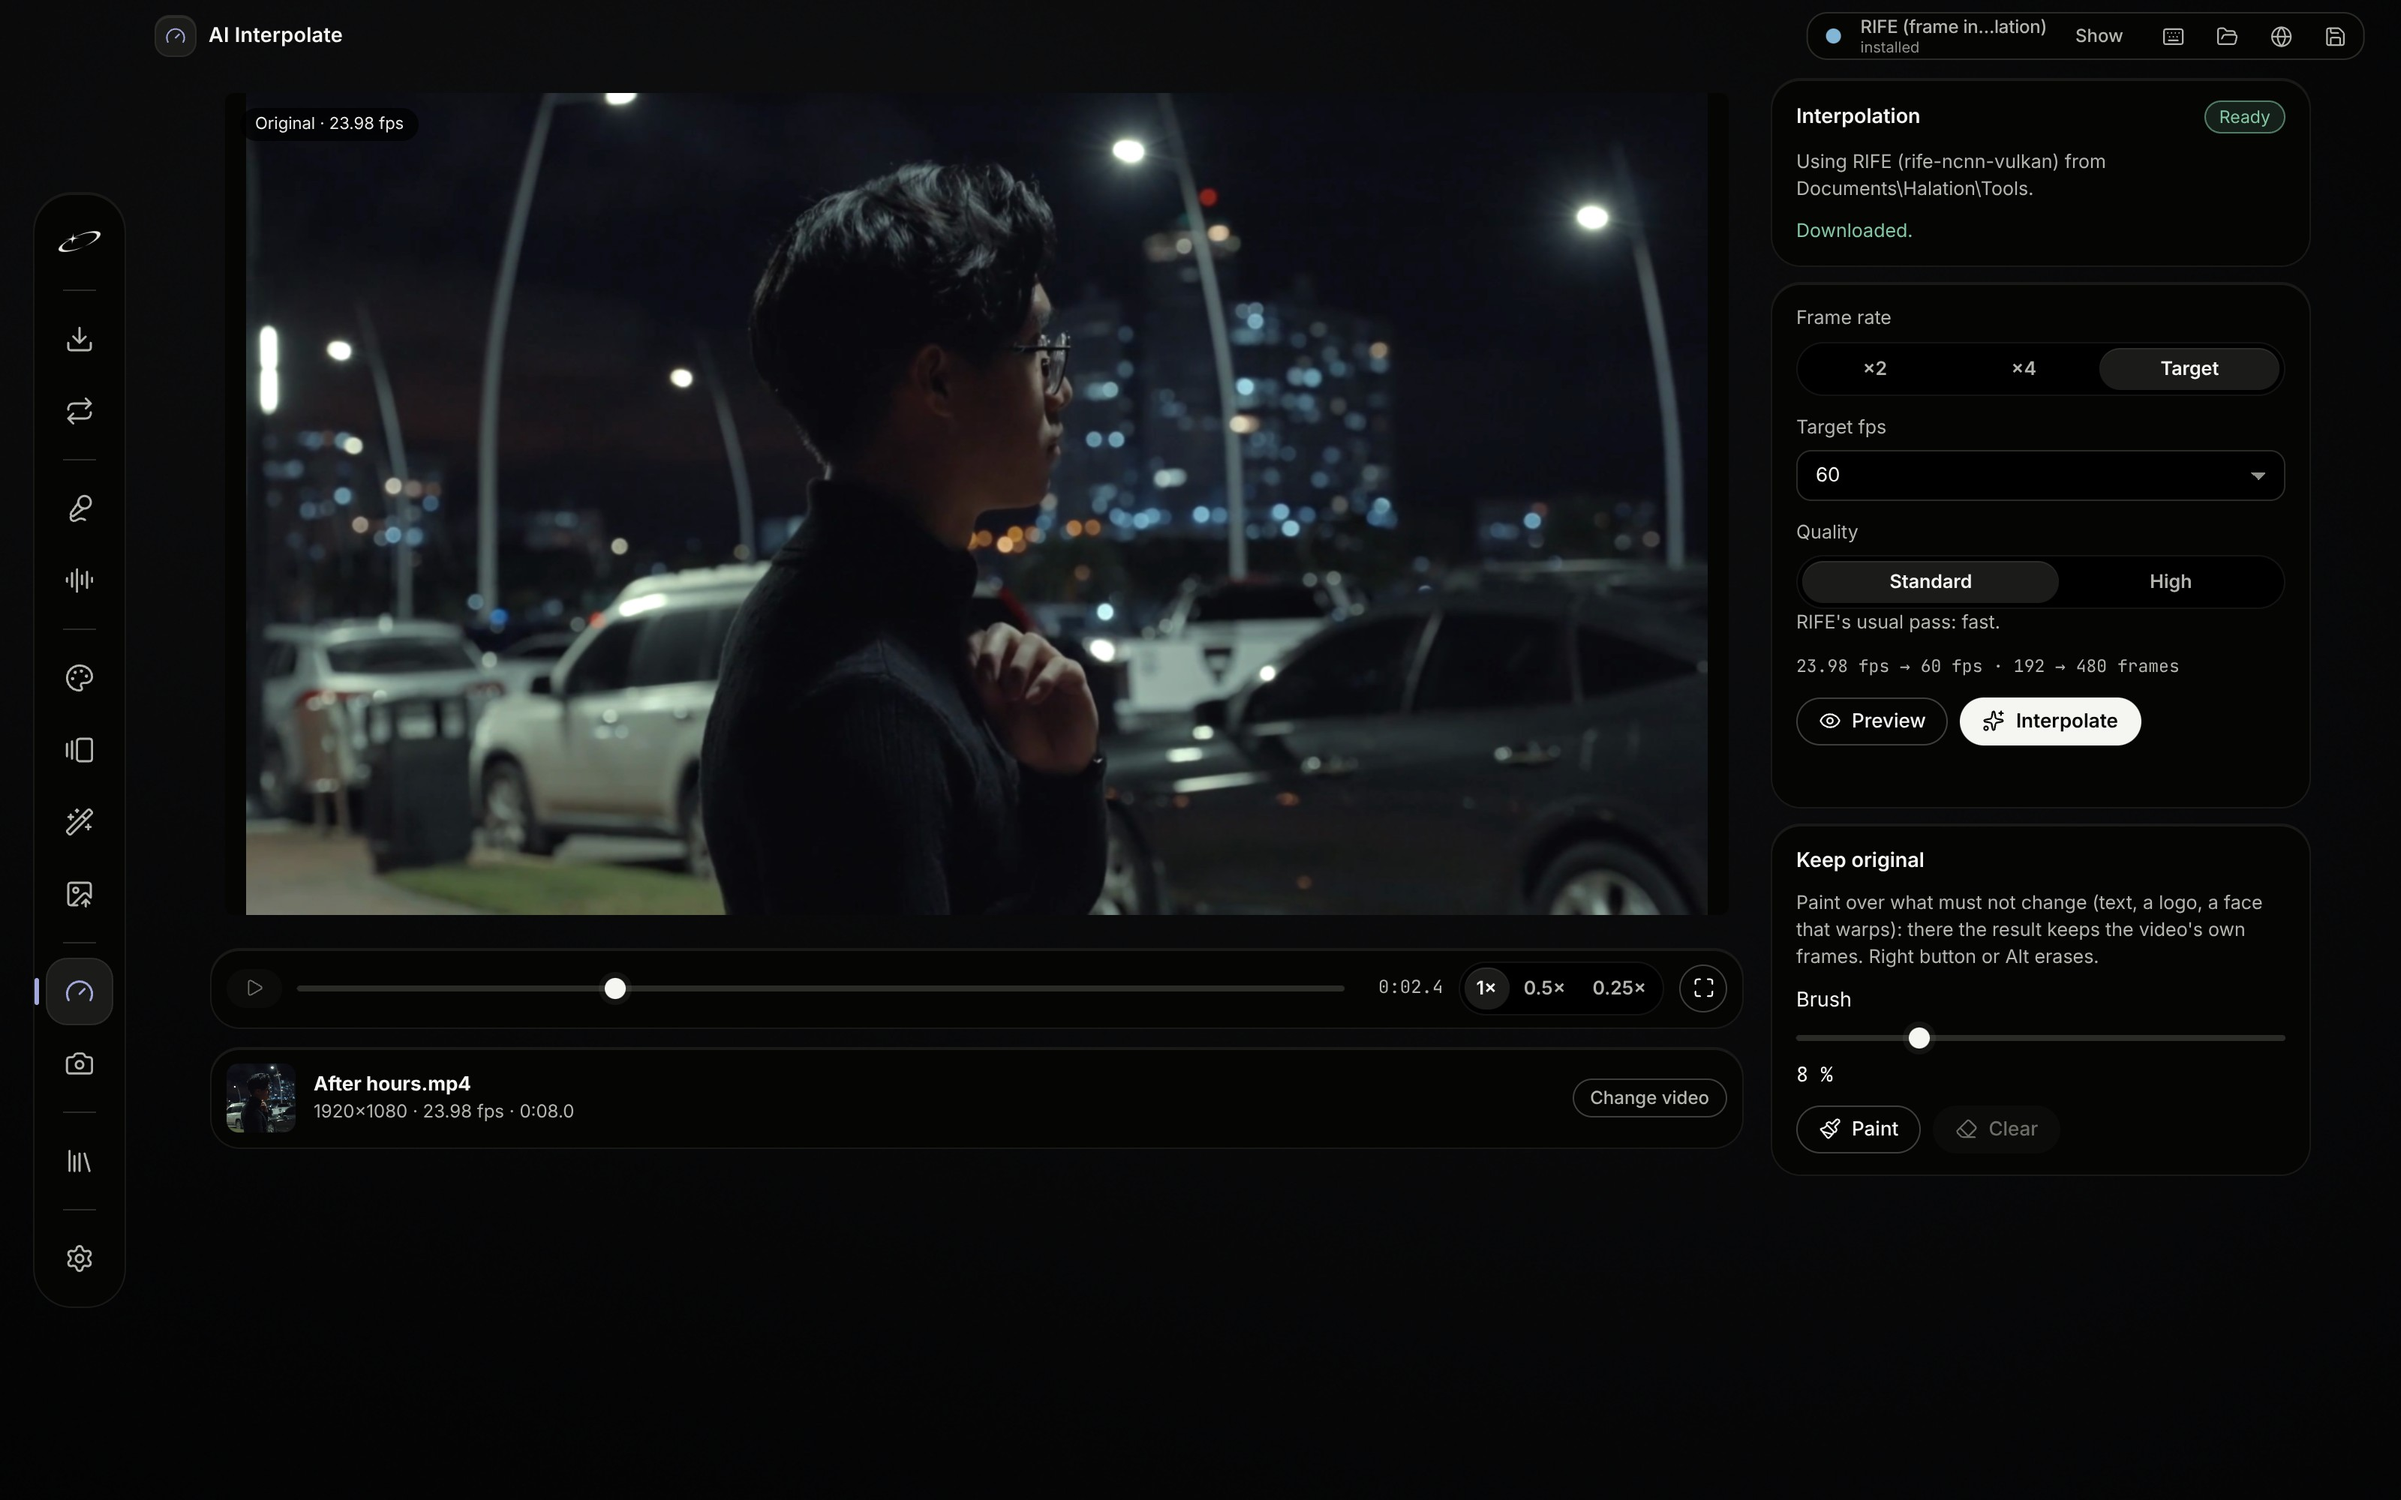
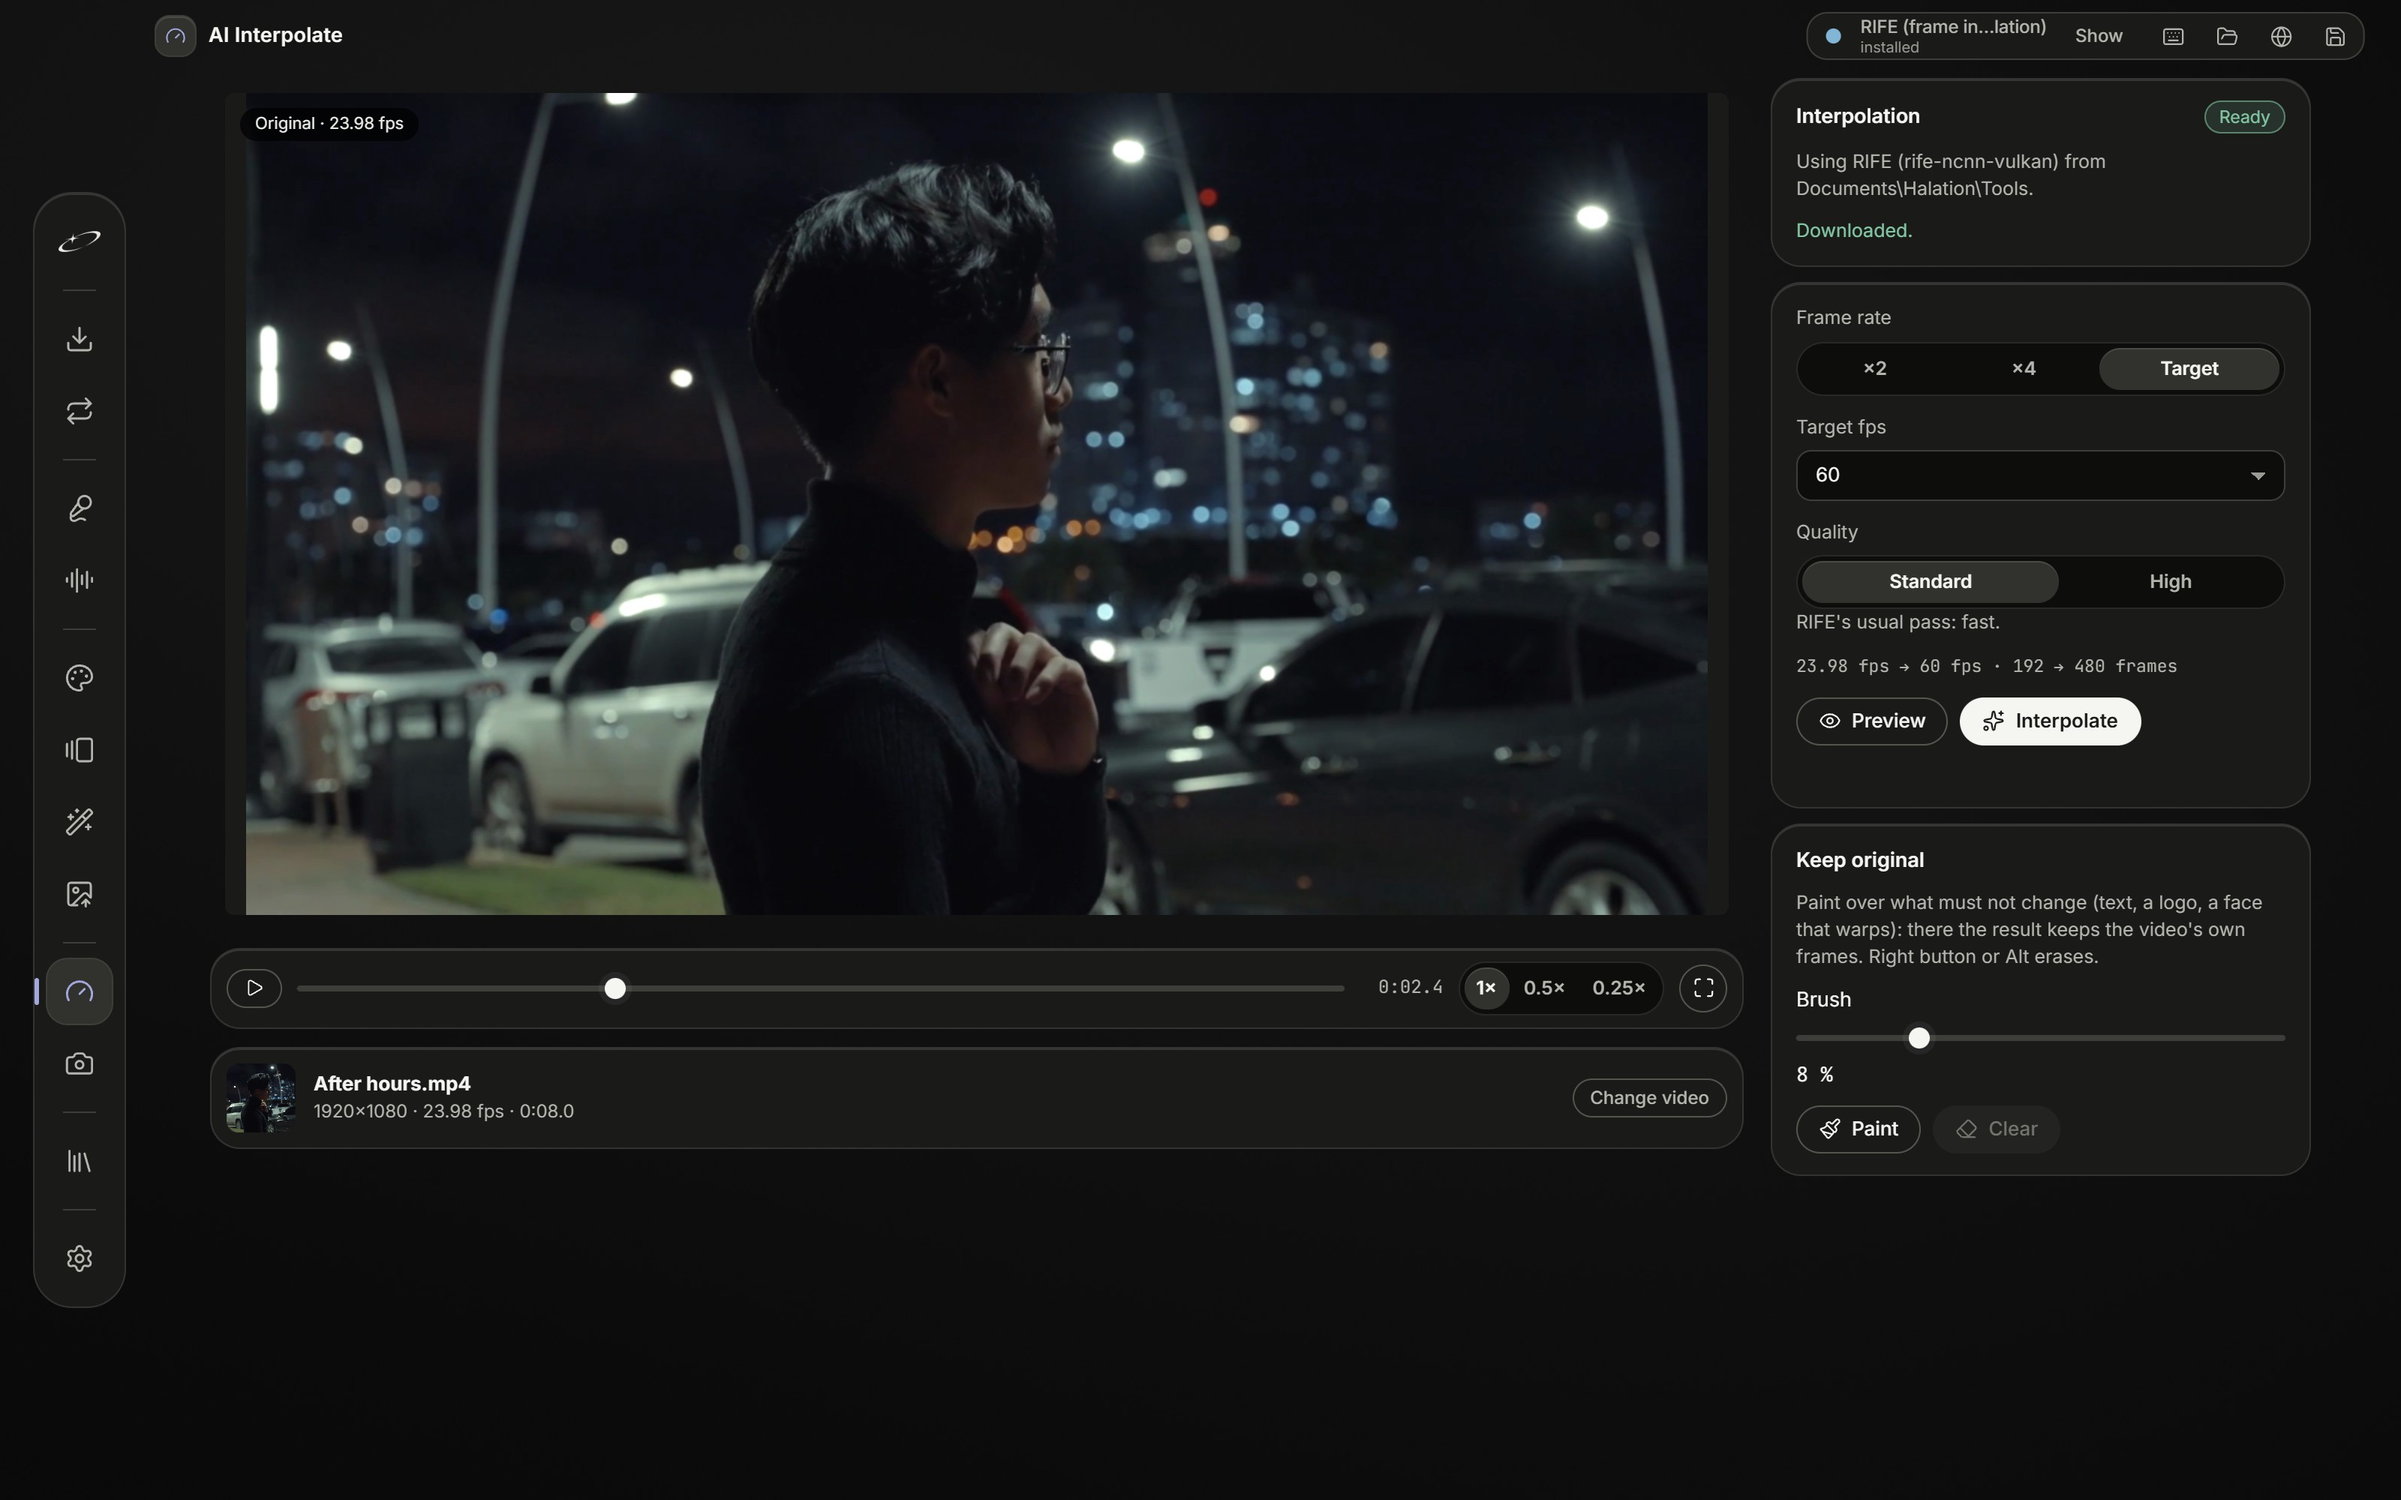
Colour rework: D tokens and H backgrounds
Lifts the dock, bubbles, cards and raised controls in neutral greys and the tool and page windows to about #111111; Home's Auralis silk keeps its shape and hues at mean brightness 20. --red goes to #e17d73 to keep AA on the new raised surface. The 12 README captures regenerated.

diff --git a/app/dist/tokens.css b/app/dist/tokens.css
@@ -1,18 +1,18 @@
 /* Halation design tokens. Every interface colour lives here; the rest of the CSS only uses these variables.
-   Rebrand: pure black window, #050504 bubbles, greys in wide steps for contrast; muted accents (periwinkle leads) so it
+   Colour rework (docs/COLOR_REWORK_SPEC.md): near-black window, #1a1a19 bubbles lifted above it, greys in wide steps; muted accents (periwinkle leads) so it
    is never flat black and white, and a pale blue that only lives in the atmosphere behind the interface (atmosphere.js). */
 :root{
   color-scheme: dark;
 
   /* Neutrals: near-neutral with a faint warm bias, from pure black to off-white */
   --n-1000:#000;
-  --n-950:#050504; --n-900:#0b0b0a; --n-850:#121211; --n-800:#1b1b19; --n-700:#2a2a27; --n-600:#3e3e3a;
-  --n-500:#6d6d67; --n-400:#908f89; --n-300:#b5b5af; --n-200:#d7d7d2; --n-100:#eaeae6; --n-50:#f5f5f2;
+  --n-950:#1a1a19; --n-900:#232321; --n-850:#2a2a28; --n-800:#31312e; --n-700:#3d3d39; --n-600:#55554f;
+  --n-500:#74746e; --n-400:#9a9993; --n-300:#b5b5af; --n-200:#d7d7d2; --n-100:#eaeae6; --n-50:#f5f5f2;
 
   /* Accents: muted, never neon; solid, tinted background (~15 %) and border. Periwinkle leads (sliders, switches,
      selection, focus, progress); the others each keep one job (states and effects) */
   --lavender:#a3a8dc; --lavender-dim:rgba(163,168,220,.15); --lavender-line:rgba(163,168,220,.55);
-  --red:#df7a70;      --red-dim:rgba(223,122,112,.13);      --red-line:rgba(223,122,112,.55);
+  --red:#e17d73;      --red-dim:rgba(223,122,112,.13);      --red-line:rgba(223,122,112,.55);
   --mint:#83c7a3;     --mint-dim:rgba(131,199,163,.14);     --mint-line:rgba(131,199,163,.55);
   --amber:#d9ae6a;    --amber-dim:rgba(217,174,106,.14);    --amber-line:rgba(217,174,106,.55);
   --cyan:#82b5d6;     --cyan-dim:rgba(130,181,214,.14);     --cyan-line:rgba(130,181,214,.55);
@@ -21,12 +21,12 @@
   /* Roles */
   --bg:var(--n-1000);           /* window, behind the atmosphere */
   --surface:var(--n-950);       /* bubbles: the dock, a tool's panels and toolbar */
-  --welcome-surface-low:#0a0a0a;
-  --welcome-surface-mid:#121212;
-  --welcome-surface-high:#171717;
+  --welcome-surface-low:#141413;
+  --welcome-surface-mid:#1c1c1b;
+  --welcome-surface-high:#232321;
   --panel:var(--n-900);         /* cards and sections, menus and dialogs */
   --raised:var(--n-800);        /* raised controls, hover */
-  --field:var(--n-1000);        /* text fields and selects */
+  --field:#0d0d0c;             /* text fields and selects */
   --line:var(--n-700);
   --line-strong:var(--n-600);
   --disabled:var(--n-500);
@@ -55,15 +55,15 @@
   --backdrop:rgba(0,0,0,.66);   /* behind dialogs */
 
   /* Bubbles: a hairline border and a lit top edge; see ui.css .card */
-  --line-soft:rgba(255,255,250,.075);   /* a bubble's border */
-  --edge:rgba(255,255,250,.08);         /* the light on a bubble's top edge */
-  --glass:rgba(5,5,4,.62);              /* a bubble over the moving Home atmosphere (blurred behind) */
+  --line-soft:rgba(255,255,250,.11);    /* a bubble's border */
+  --edge:rgba(255,255,250,.12);         /* the light on a bubble's top edge */
+  --glass:rgba(26,26,25,.68);           /* a bubble over the moving Home atmosphere (blurred behind) */
 
   /* Atmosphere (atmosphere.js): greys with a pale blue in the light; Home is lit, the tools almost black */
   --atmo:#b9c8e6;
   --media:#000;                 /* letterbox behind the preview canvas */
   --viewer:var(--n-950);        /* Upscale: behind a still picture, around its own aspect ratio */
-  --checker-a:#2a2a27; --checker-b:#1b1b19;   /* behind transparent previews and cut-out pictures */
+  --checker-a:#3d3d39; --checker-b:#31312e;   /* behind transparent previews and cut-out pictures */
   --matte-dark:#000; --matte-light:#fff;      /* Cutout: plain backgrounds to judge the edge on */
   --crop-shade:rgba(0,0,0,.66);                /* Crop: the picture outside the frame */
   --bg-select:#3d7dff;                         /* Remove Background: what counts as background (drawn at half opacity) */

diff --git a/app/dist/auralis.js b/app/dist/auralis.js
@@ -99,7 +99,7 @@ function snoise(x, y, z) {
 const F = {
   angle: .85, along: .38, across: .9, scale: .95, rate: .0055, drift: .5, warp: 1.3, ripple: .12, rippleFreq: 10,
   normal: .1, sheenPower: 1.6, bodyLow: -.2, bodyHigh: .55, voids: .9, diffuseFloor: .1, bodyGain: 1.1, sheenGain: .45,
-  vignette: .4, target: .054, maxBias: .5, minExposure: .8, maxExposure: 1.25
+  vignette: .4, target: .07, maxBias: .5, minExposure: .8, maxExposure: 1.25
 };
 const f4 = x => x.toFixed(5);
 const FIELD_GLSL = `
@@ -298,7 +298,7 @@ function stabiliserAt(aspect, t, fieldHeight, colors) {
 // GRAIN_UNIT: grain amplitude per unit of settings.grain × review strength; at the defaults (1.25 × 0.5) the grain is
 // half of the previous Auralis film grain at full strength (0.0098).
 const GRAIN_UNIT = .00784, FIELD_EDGE = 320, FIELD_FPS = 15, WAVE_FPS = 60, RESIZE_MS = 160, MAX_DT = .1;
-const DEFAULTS = { colors: ["#020203", "#5d6577", "#b4c4f0"], speed: 1, grain: 1.25 };
+const DEFAULTS = { colors: ["#0c0c0d", "#5d6577", "#b4c4f0"], speed: 1, grain: 1.25 };
 const rgb = c => { const s = String(c).replace("#", ""), h = s.length === 3 ? s.replace(/./g, "$&$&") : s, n = parseInt(h, 16); return isNaN(n) ? [0, 0, 0] : [(n >> 16 & 255) / 255, (n >> 8 & 255) / 255, (n & 255) / 255]; };
 const decode = b64 => Uint8Array.from(atob(b64), ch => ch.charCodeAt(0));
 

diff --git a/app/dist/soft-light.js b/app/dist/soft-light.js
@@ -10,11 +10,11 @@ float softDither(vec2 p) { return softHash(p) + softHash(p + 57.31) - 1.0; }
 vec3 softLight(vec2 p, float seconds, float welcome, float opening) {
   vec2 a = (p - vec2(-0.32, 0.335)) * vec2(0.72, 1.15);
   vec2 b = (p - vec2(0.45, -0.12)) * vec2(0.85, 1.05);
-  vec3 col = vec3(0.009, 0.010, 0.013);
+  vec3 col = vec3(0.032, 0.032, 0.031);
   vec3 first = mix(vec3(1.0), vec3(0.364706, 0.396078, 0.466667), 0.35);
   vec3 second = mix(vec3(1.0), vec3(0.705882, 0.768627, 0.941176), 0.5);
-  col += first * exp(-2.4 * dot(a, a)) * 0.052;
-  col += second * exp(-3.1 * dot(b, b)) * 0.019;
+  col += first * exp(-2.4 * dot(a, a)) * 0.068;
+  col += second * exp(-3.1 * dot(b, b)) * 0.025;
   // Two broad light volumes: spatial warping, breathing and drift, without visible edges.
   float phase = seconds * 0.174532925;
   float settled = smoothstep(0.35, 1.0, opening);

diff --git a/app/dist/atmosphere.js b/app/dist/atmosphere.js
@@ -85,7 +85,7 @@ const PAGE = `vec3 page(vec2 fc,float m){
   float a=exp(-2.1*length((uv-c1)*vec2(.7,1.6)));
   float b=exp(-2.9*length((uv-c2)*vec2(.8,1.8)));
   float s=a*.08+b*.042;
-  return s*mix(vec3(1.),tint,.6)+vec3(.006,.006,.005);
+  return s*mix(vec3(1.),tint,.6)+vec3(.030,.030,.029);
 }`;
 const HEAD = `precision highp float;uniform vec2 r;uniform float t;uniform vec3 tint;uniform vec3 v;uniform float m;uniform vec2 wave;
 ${NAVIGATION_REFRACTION_GLSL}

diff --git a/docs/COLOR_REWORK_SPEC.md b/docs/COLOR_REWORK_SPEC.md
@@ -90,6 +90,9 @@ captures (shader output: about `#060606` now and in C, `#0b0b0b` in D); the rest
 | accent fill vs slider track | 6.30 | 5.39 | 4.77 |
 
 Every text pair stays above AA (4.5:1); `--text-3` is raised to `#9a9993` so it still clears AA on raised controls.
+For the same reason `--red` goes from `#df7a70` to `#e17d73`: on D's `--raised` (`#31312e`) the old red reads 4.45:1
+(Grade's layer menu Delete, an errored row in Vocal Remover's queue) and the new one 4.59:1; `--red-dim` and
+`--red-line` keep their values.
 What improves is the separation: the bubbles go from darker than the window to clearly above it, and cards, fields,
 borders and tracks each sit on their own step.
 
